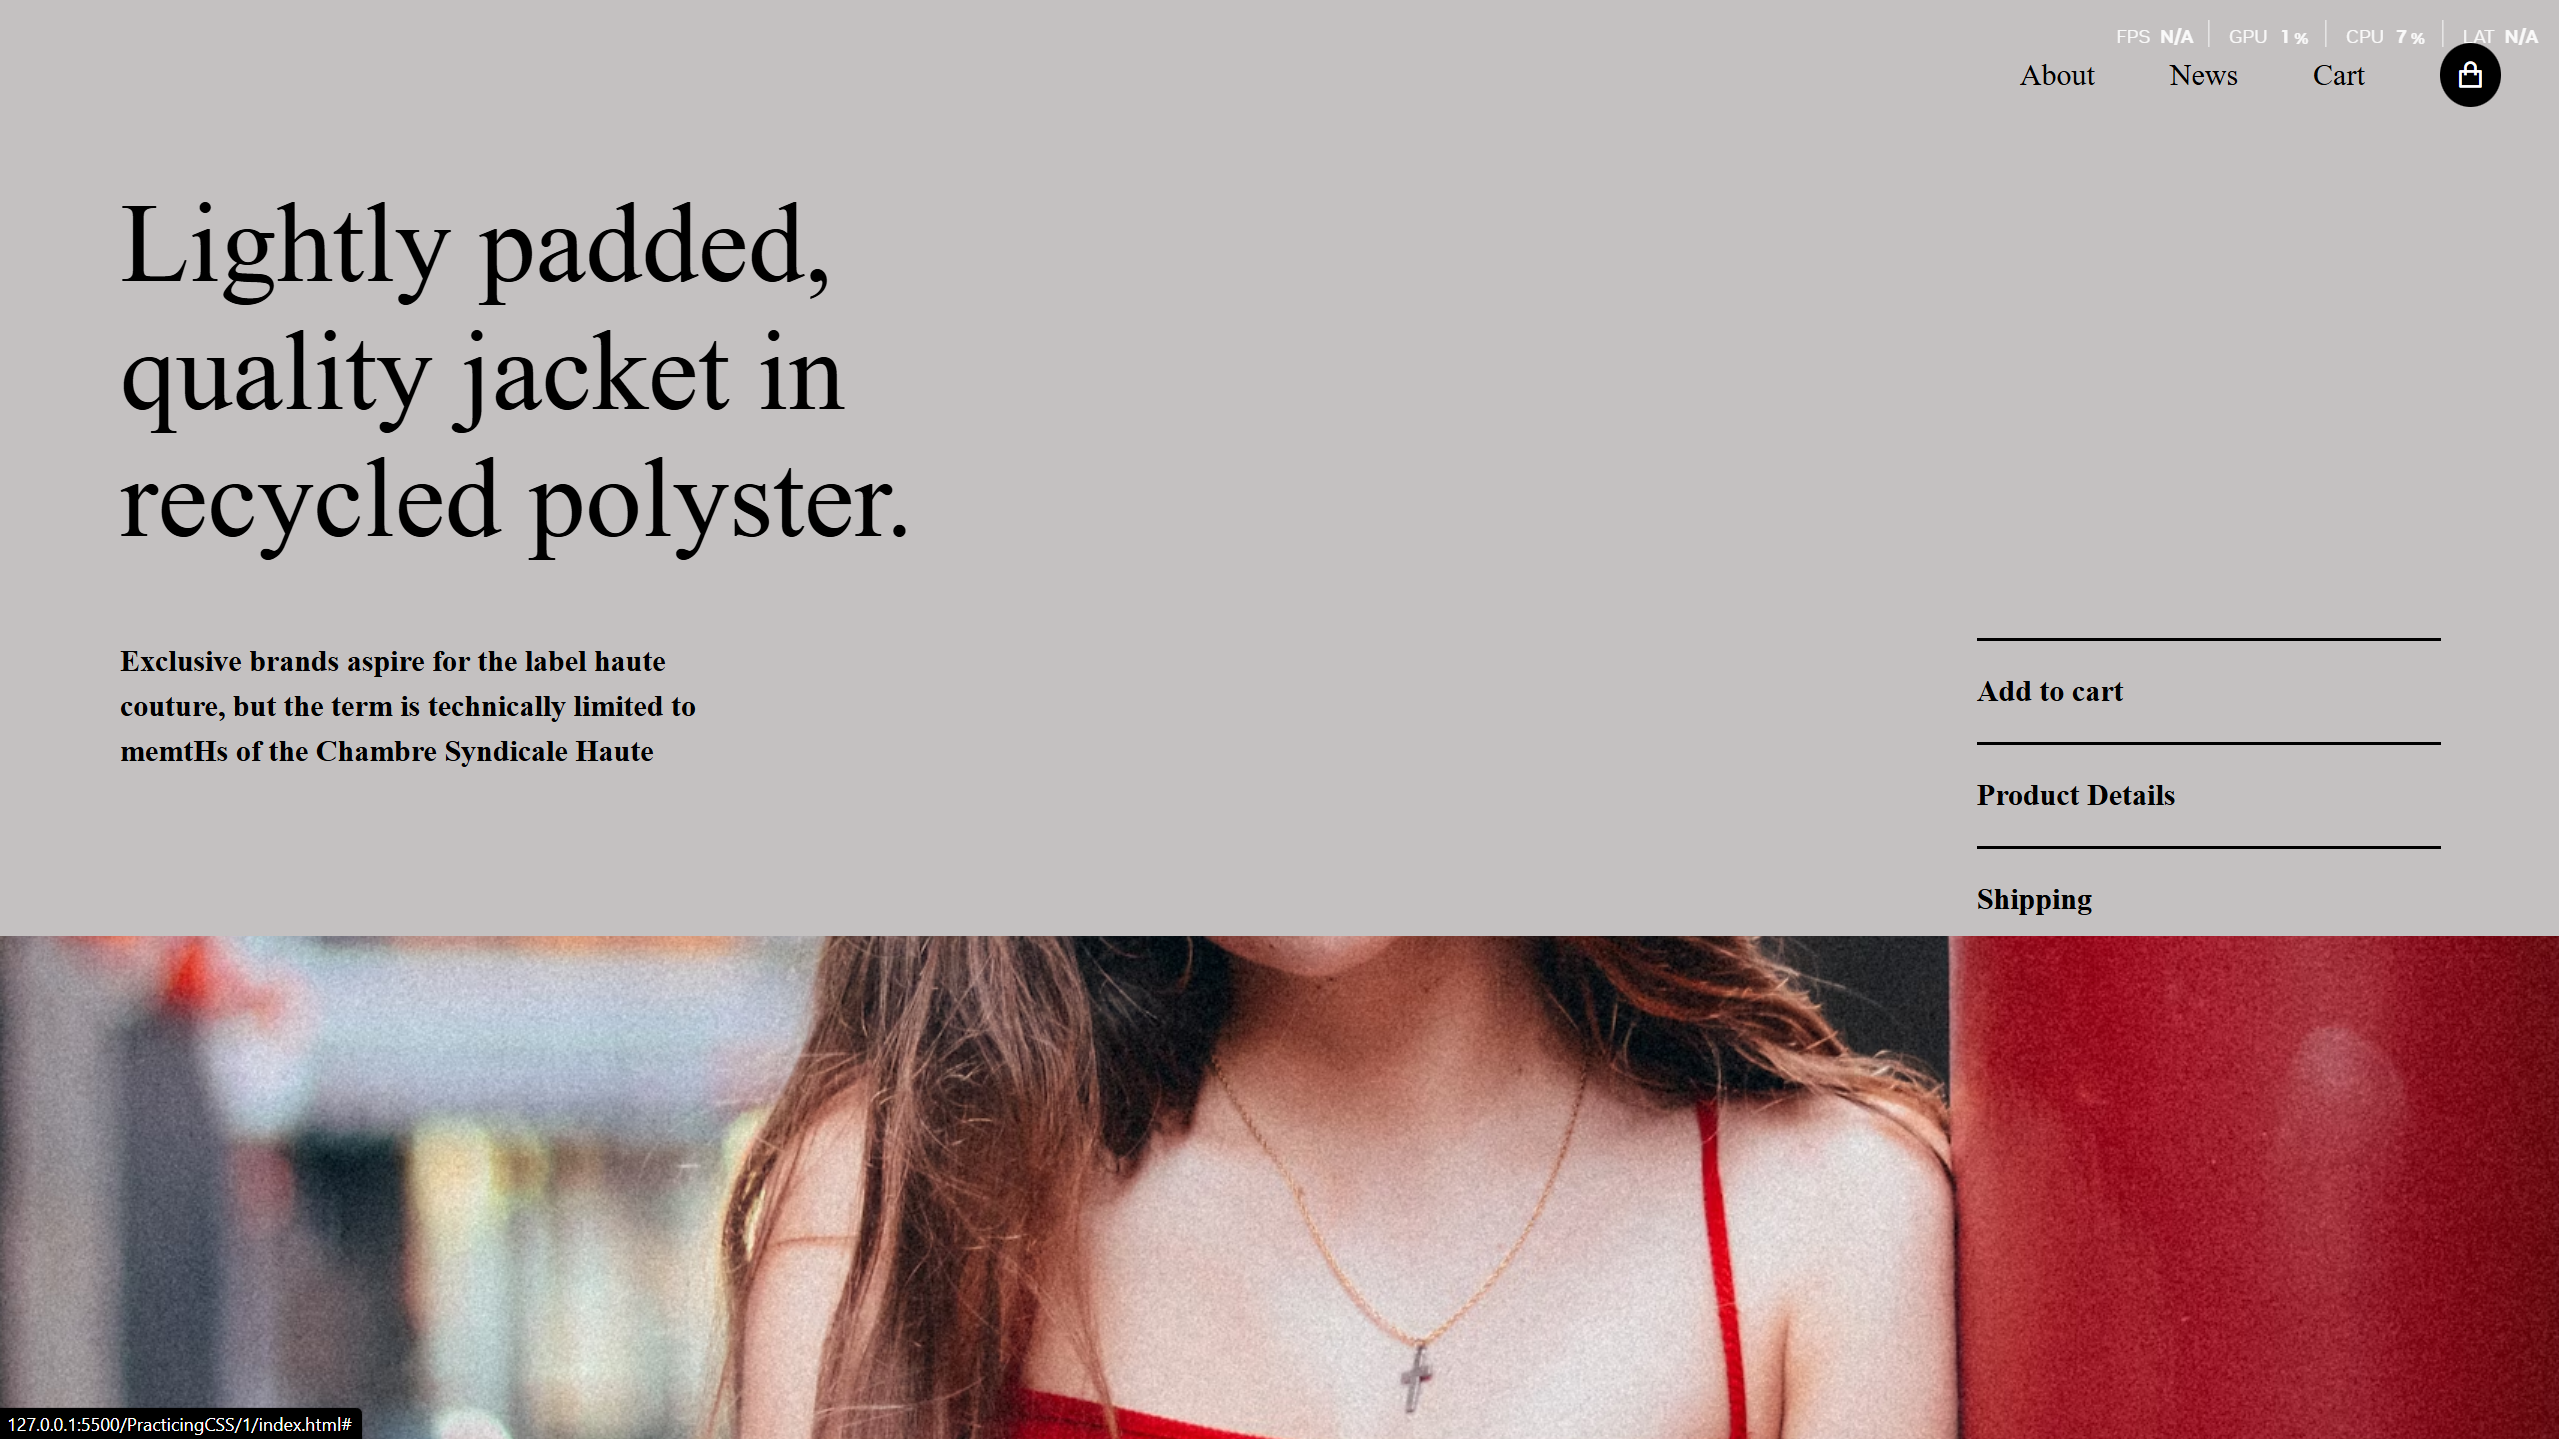
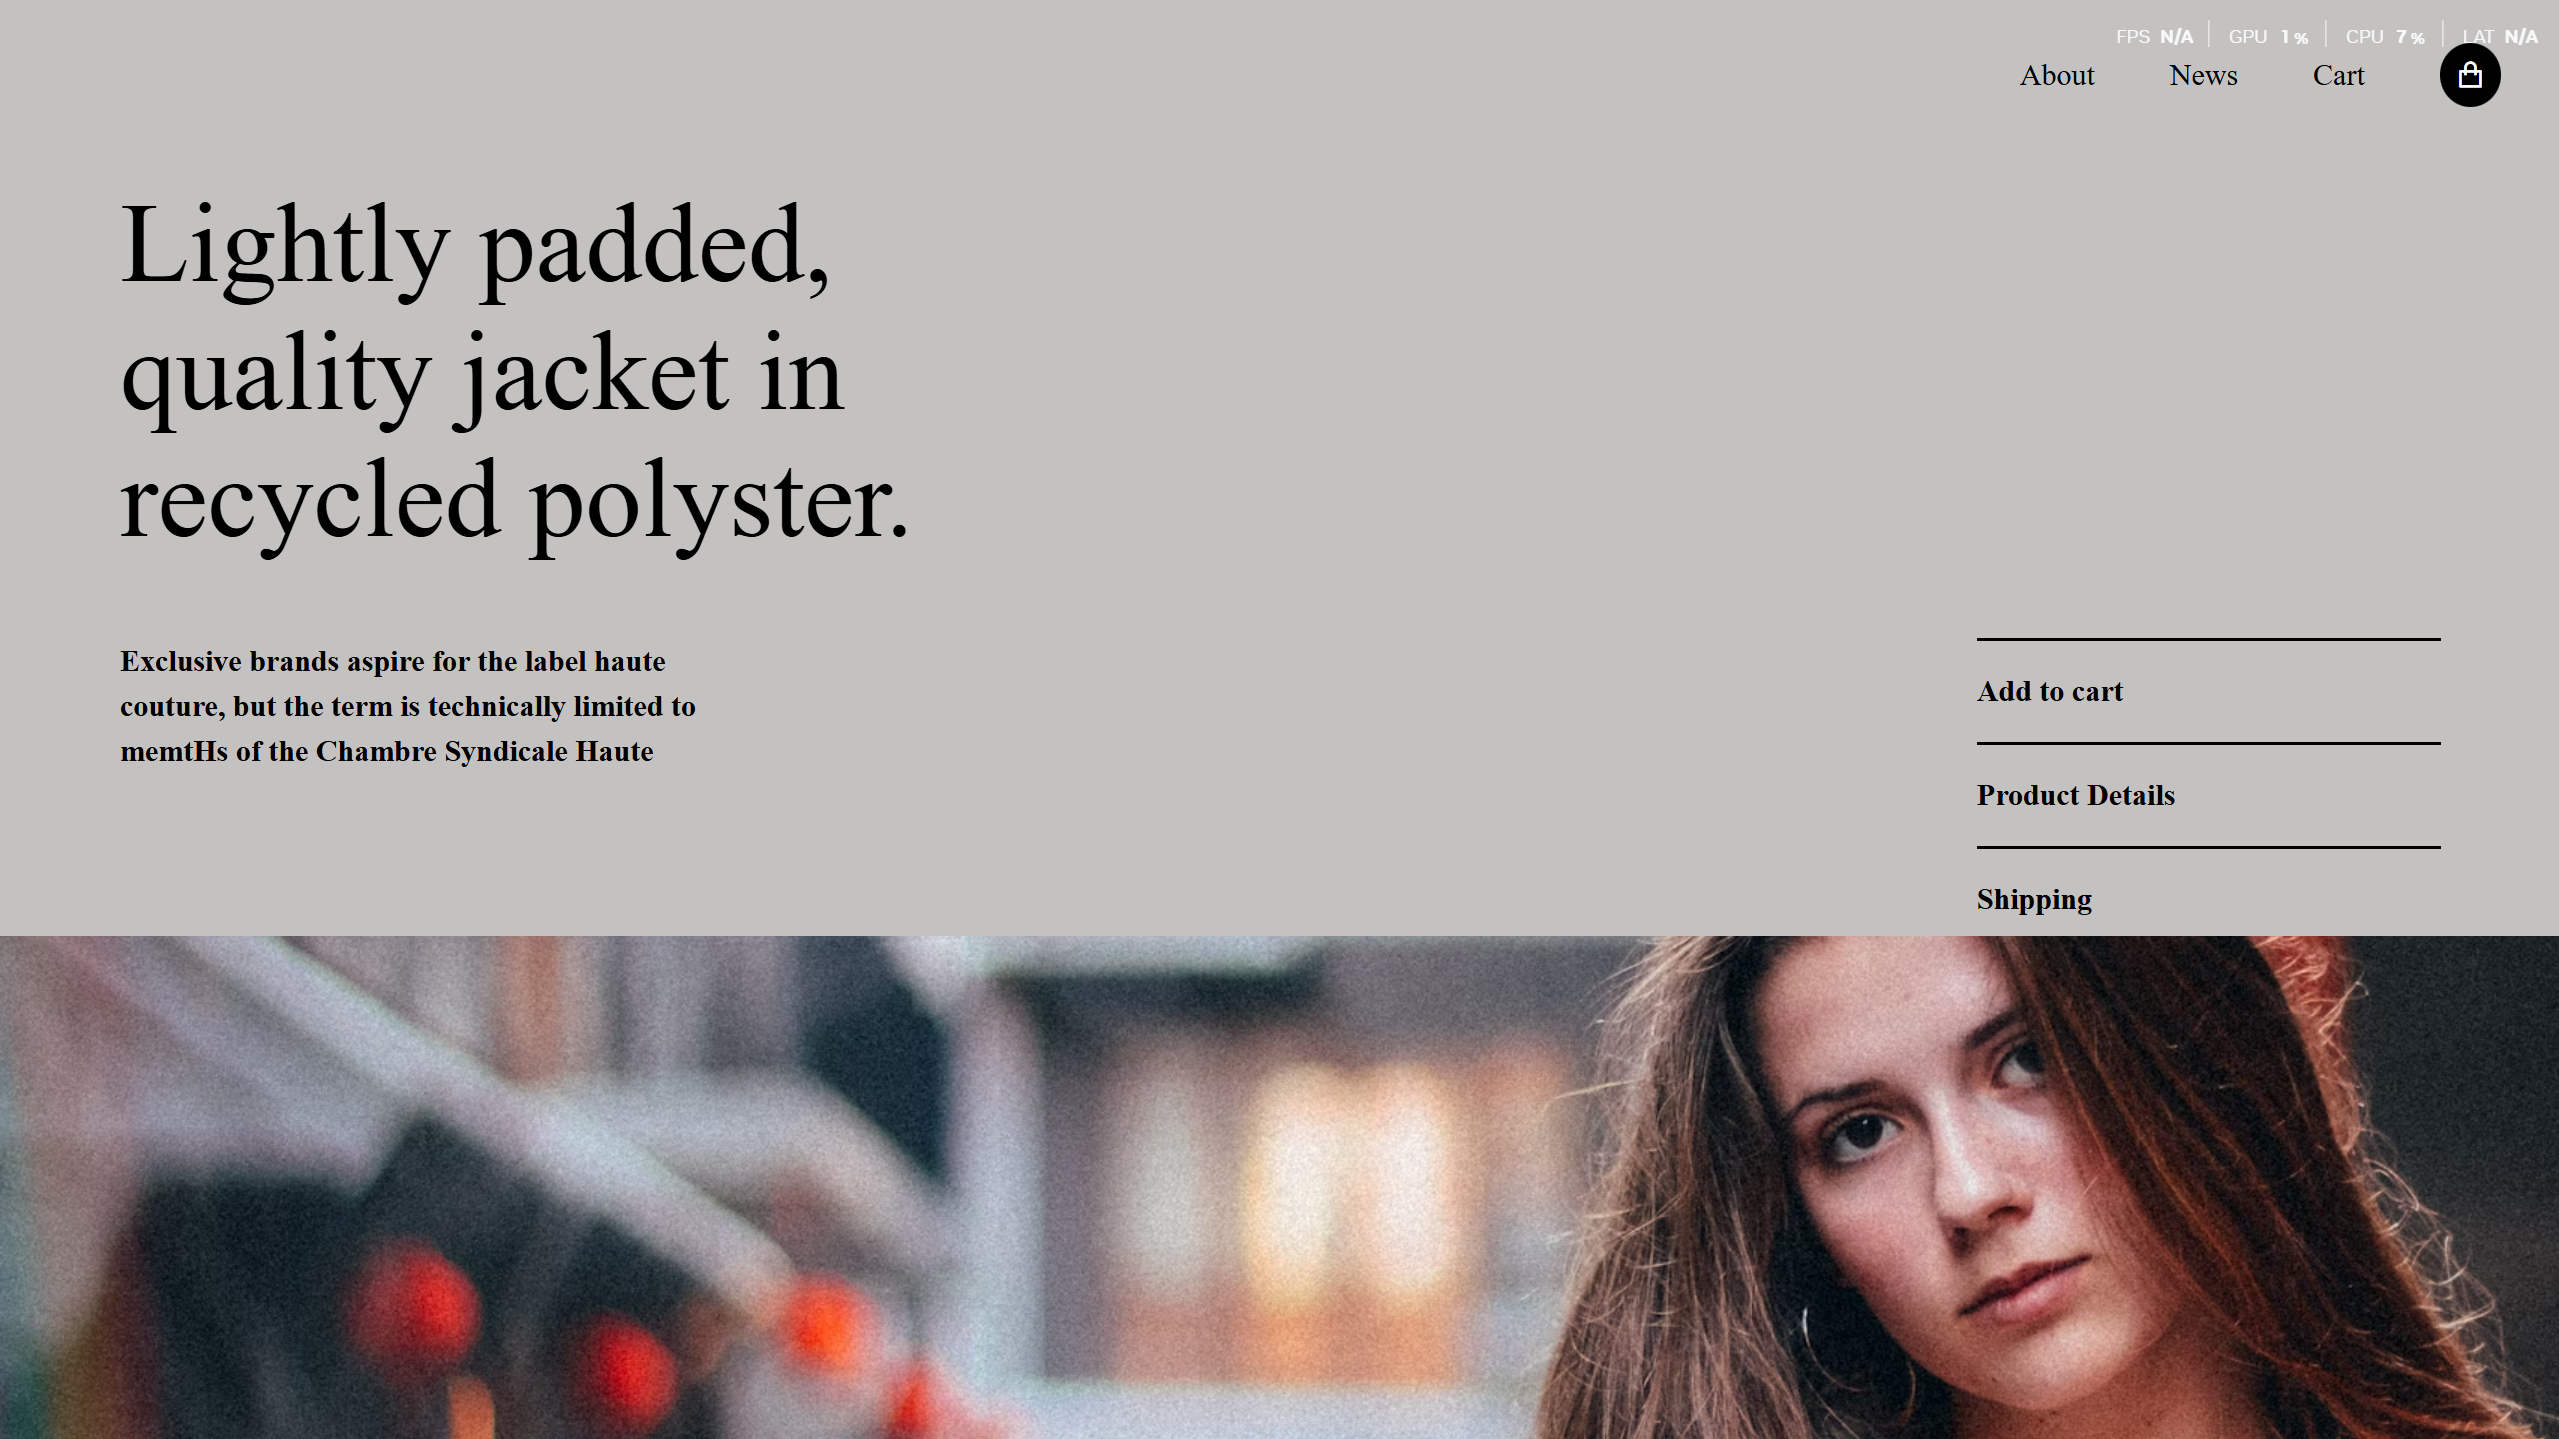
CSS_Change

diff --git a/AnimationGrindingSoon/PracticingCSS/1/style.css b/AnimationGrindingSoon/PracticingCSS/1/style.css
@@ -117,5 +117,5 @@ body {
   width: 100%;
   /* background-color: red; */
   background-image: url("https://images.unsplash.com/photo-1520048330564-702a8875182f?q=80&w=2671&auto=format&fit=crop&ixlib=rb-4.1.0&ixid=M3wxMjA3fDB8MHxwaG90by1wYWdlfHx8fGVufDB8fHx8fA%3D%3D");
-  background-position: center;
+  background-position: 0 30%;
 }
